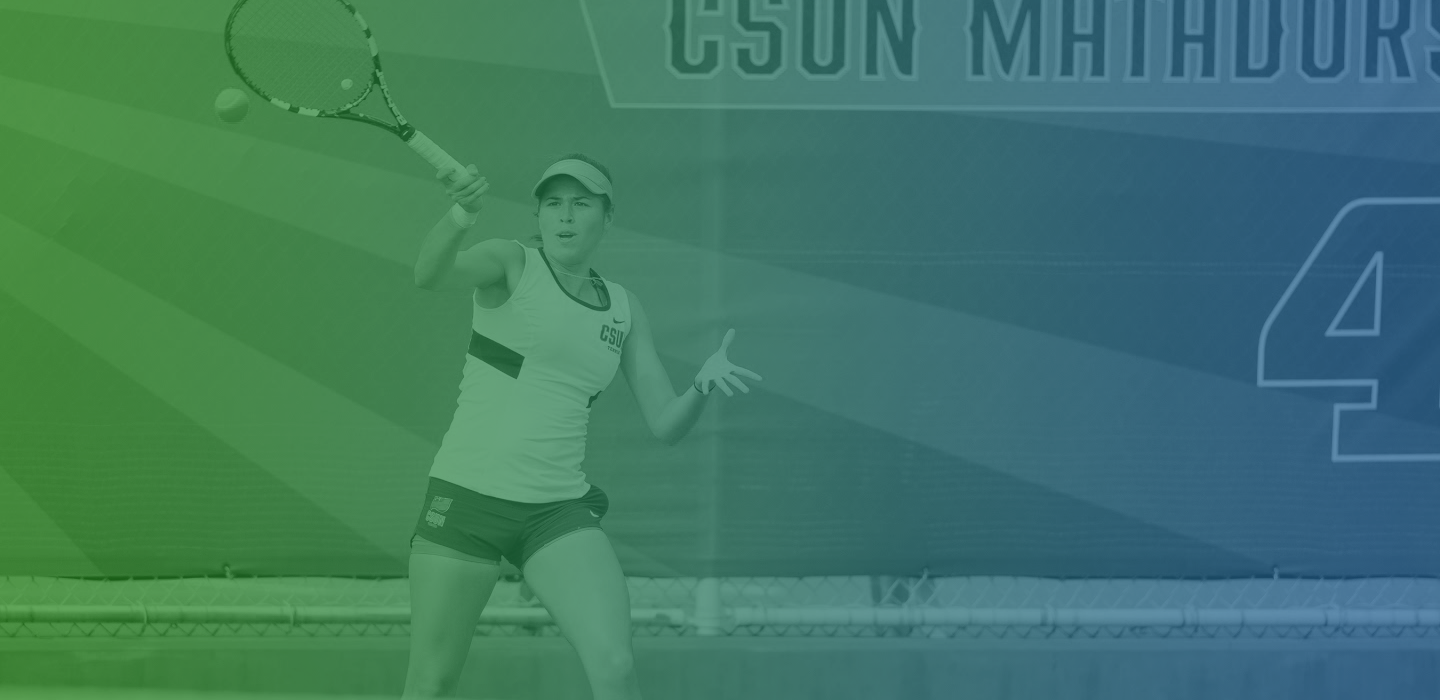
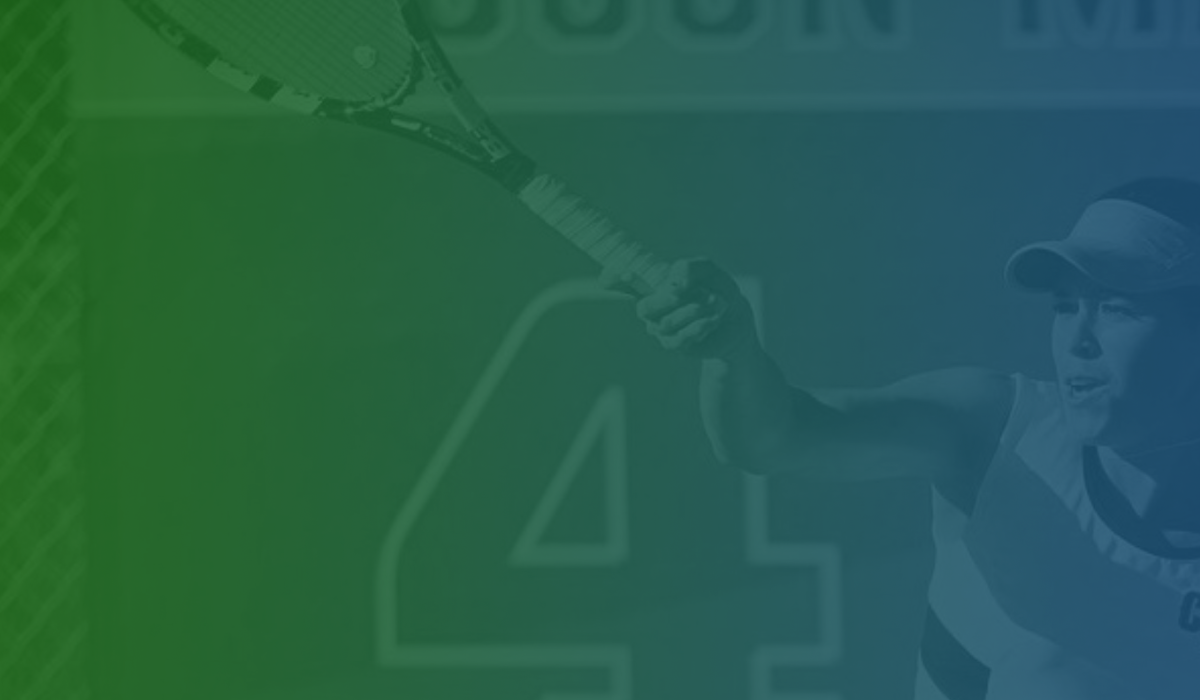
Add files via upload

diff --git a/src/index.css b/src/index.css
@@ -54,16 +54,17 @@ code {
 
 .banner{
   position:relative;
-  margin-top:120px;
+  margin-top:100px;
   animation-duration: 3s;
   animation-name: fadeIn;
+  height: calc(100vh - 45vh);
 }
 
 .title{
   font-size:20px;
   font-family: "Rock Salt";
   color:white;
-  font-weight:200;
+  font-weight:300;
 }
 
 .intro{
@@ -104,6 +105,15 @@ input:focus:-moz-placeholder { color:transparent; } /* FF 4-18 */
 input:focus::-moz-placeholder { color:transparent; } /* FF 19+ */
 input:focus:-ms-input-placeholder { color:transparent; } /* IE 10+ */
 
+/* .banner-wrapper{
+  position: relative;
+  display: inline-block;
+  height: 100vh;
+  width: 100%;
+  float: left;
+} */
+
+
 /********************************** NAVBAR  ************************************/
 /* .active-link{
   padding:10px 0px;
@@ -140,8 +150,8 @@ input:focus:-ms-input-placeholder { color:transparent; } /* IE 10+ */
   display:none;
 }
 .navbar-logo{
-  font-size:40px;
-  font-family: "Rock Salt";
+  font-size:60px;
+  font-family: "Gruppo";
   color:#ffffff;
   margin-left:15%;
 }
@@ -534,7 +544,7 @@ footer{
     position: fixed;
     top: 40%;
     right: -1px;
-    background-color: rgba(230, 230, 230, 0.699);
+    background-color: rgba(230, 230, 230);
     border-radius: 10px;
     font-size: 20px;
     padding: 5px 10px;
@@ -801,13 +811,14 @@ input{
     background:red;
   }
   .navbar-logo{
-    font-size:30px;
+    font-size:40px;
   }
   .query-nav{
     display:none;
   }
   .query-nav2{
-    background:linear-gradient(bottom, rgba(185, 227, 240, 0.4), rgb(116, 211, 240, 0.4));
+    /* background:linear-gradient(bottom, rgba(185, 227, 240, 0.4), rgb(116, 211, 240, 0.4)); */
+    background: rgba(0, 79, 168, 0.479);
     display:block;
   }
   .navbar-divider{
@@ -817,7 +828,7 @@ input{
     font-size:20px;
   }
   .banner{
-   margin-top:80px; 
+   margin-top:130px; 
   }
   .intro{
     font-size:20px;
@@ -826,6 +837,10 @@ input{
   }
   .navbar-contact-info{
     margin-top:30px;
+  }
+  .navbar-phone{
+    margin-top:10px;
+    font-size:18px;
   }
   .banner-requestBtn{
     font-size:20px;
@@ -902,7 +917,7 @@ input{
     font-size:18px;
   }
   .banner{
-    margin-top:60px; 
+    margin-top:110px; 
   }
   .req_sticky-btn{
     font-size:18px;

diff --git a/src/components/Navbar/Navbar.js b/src/components/Navbar/Navbar.js
@@ -4,11 +4,11 @@ import {NavLink, Link} from 'react-router-dom'
 const Navbar = () => {
   return (
     <div>
-      <div className="container-fluid navbar">
-        <div className="col-3 px-0 mt-4">
+      <div className="container-fluid navbar pt-0 pt-lg-4">
+        <div className="col-3 px-0">
           <Link className="navbar-logo" to="/">iTrainUwin</Link>
         </div>
-        <div className="col-9 px-0 navbar-tabs pt-4 d-flex justify-content-end">
+        <div className="col-9 px-0 navbar-tabs d-flex justify-content-end">
           <NavLink className="query-nav navbar-home" to="/" exact activeClassName="active-link">Home</NavLink>
           <NavLink className="query-nav navbar-bio mx-4" to="/qualifications" exact activeClassName="active-link">Qualifications</NavLink>
           <NavLink className="query-nav navbar-requestLesson" to="/services" exact activeClassName="active-link">Services & Pricing</NavLink>
@@ -18,7 +18,7 @@ const Navbar = () => {
       </div>
       <div className="container-fluid mx-0 px-0">
         <div className="col-12 query-nav2">
-          <div className="px-0 navbar-tabs pt-2 pb-4 pb-0 mb-0 d-flex justify-content-center">
+          <div className="px-0 navbar-tabs pb-2 pt-0 d-flex justify-content-center">
             <NavLink className="navbar-home" to="/" exact activeClassName="active-link">Home</NavLink>
             <NavLink className="navbar-bio mx-4" to="/qualifications" exact activeClassName="active-link">Qualifications</NavLink>
             <NavLink className="navbar-requestLesson" to="/services" exact activeClassName="active-link">Services & Pricing</NavLink>

diff --git a/src/components/Home/Banner.js b/src/components/Home/Banner.js
@@ -1,5 +1,4 @@
 import React, {Component} from 'react'
-import {Link} from 'react-router-dom'
 import { Button, Modal, ModalHeader, ModalBody } from 'reactstrap';
 
 
@@ -112,7 +111,9 @@ class Banner extends Component {
                 <a target="_blank" href="https://www.linkedin.com/in/criss-rodriguez-192a22a8"><i class="fab fa-linkedin mx-3"></i></a>     
                 <a target="_blank" href="https://www.facebook.com/criss.rodriguez.75"><i class="fab fa-facebook-square"></i></a>  
             </div>
+
         </div>
+        <div className="banner-wrapper"></div>
     </div>
   )}
 }

diff --git a/src/App.js b/src/App.js
@@ -4,7 +4,7 @@ import Navbar from './components/Navbar/Navbar'
 import Home from './components/Home/Home'
 import Footer from './components/Footer/Footer'
 import Services from './components/Services/SP_Home'
-import BannerImg from './images/crissbanner4.png'
+import BannerImg from './images/crissbanner3.png'
 import Qualifications from './components/Bio/Qualifications'
 import Request_Sticky from './components/Navbar/Request_Sticky'
 
